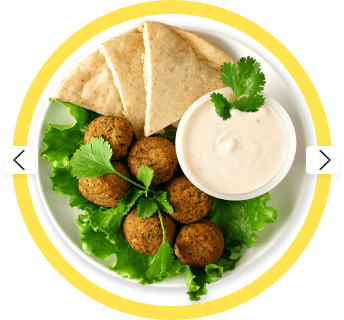
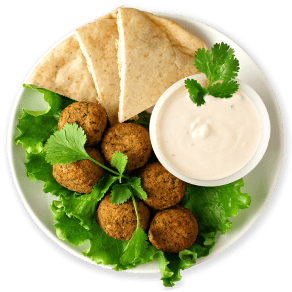
позиціювання + картинки + ховер - фокус

diff --git a/src/css/hero.css b/src/css/hero.css
@@ -17,6 +17,9 @@
     line-height: 1.4;
     margin-bottom: 32px;
 }
+.hero-list {
+    display: none;
+}
 .hero-btn {
     color: #2c2c2c;
     font-size: 13px;
@@ -31,10 +34,14 @@
     background-color: #BBF330;
     border: transparent;
 
-    border-radius: 30px;
-    padding: 6px 17px;
     width: 98px;
     height: 32px;
+    transition-duration: 500ms;
+    transition-timing-function: cubic-bezier(0.66,-0.28, 0.18, 0.91);
+}
+.hero-btn:hover,
+.hero-btn:focus {
+    background-color: #FFE450;
 }
 .hero-kart {
     display: none;
@@ -46,6 +53,7 @@
     .hero-wrapper {
         padding-top: 30px;
         padding-bottom: 42px;
+        position: relative;
     }
     .hero-title {
         line-height: 1.2;
@@ -54,9 +62,6 @@
         width: 481px;
     }
     .hero-group {
-        position: relative;
-        display: flex;
-        gap: 54px;
     }
     .hero-text {
         color: var(--Black, #2C2C2C);
@@ -66,18 +71,42 @@
         margin-bottom: 49px;
         width: 336px;
     }
+    .hero-picture {        
+    }
     .hero-kart {
         display: block;
         position: absolute;
-        top: -50%;
+        bottom: 0;
         right: 0;
+        border-radius: 291px;
+        border: 13px solid #FFE550;
+         
+    }
+    .hero-list {
+    }
+    .hero-item {
+        background-color: #D9D9D9;
+        border-radius: 4px;
+        width: 25px;
+        height: 24px;
+        display: flex;
+        justify-content: center;
+        align-items: center;
+    }
+    .link {  
+    }
+    .hero-icon-l {
+    }
+    .hero-icon-r {
+    }
+     .hero-kart-desktop {
+        display: none;
     }
 }
 @media only screen and (min-width: 1280px) {
     .hero-wrapper {
-        padding-top: 168px;
+        padding-top: 159px;
         padding-bottom: 0;
-        position: relative;
     }
     .hero-title {
         font-size: 48px;
@@ -87,20 +116,24 @@
         margin-bottom: 40px;
     }
     .hero-group {
-        gap: 100px;
     }
     .hero-kart {
         display: none;
     }
     .hero-kart-desktop {
         position: absolute;
-        top: -200%;
+        bottom: 0;
         right: 0;
         display: block;
         border-radius: 291px;
-        border: 27px solid #FFE550;       
+        border: 26px solid #FFE550; 
+        width: 580px;
+        height: 580px;
+    }
+    .hero-list {
+        display: none;
     }
     .hero-btn {
-        margin-bottom: 164px;
+        margin-bottom: 170px;
     }
     }

diff --git a/src/partials/hero.html b/src/partials/hero.html
@@ -6,37 +6,54 @@
         doorstep, no matter where you are. Order now and enjoy a hassle-free and delicious meal
         from the comfort of your own home.
       </p>
-
-      <picture>
-      
-      
-        <source
+      <div class="hero-picture">
+       <picture>
+       <source
           media="(min-width: 1280px)"
-          srcset="./images/gallery/img-1_lg.jpg 1x, ./images/gallery/img-1_lg@2x.jpg 2x"
-          type="image/jpg"
+          srcset="./img/hero/hero-salad.png 1x, ../img/hero/hero-salad-max.png 2x"
+          type="image/png"
         />
-        <!-- Tablet screen -->
-      
-        <source
-          media="(min-width: 768px)"
-          srcset="./images/gallery/img-1_md.jpg 1x, ./images/gallery/img-1_md@2x.jpg 2x"
-          type="image/jpg"
-        />
-        <!-- Mobile screen -->
-      
-     
-        <img
-          class="card-img"
-          src="./images/gallery/img-1_lg.jpg"
-          alt="Ноутбук"
-          width="450"
-          height="294"
-          loading="lazy"
+        <img 
+          class="hero-kart-desktop"
+          src="./img/hero/hero-salad.png"
+          alt="Salad"
+          width="520"
+          height="520"
         />
       </picture>
-
-
-
+      <source
+         media="(min-width: 768px)"
+          srcset="./img/hero/hero-tab1x.png 1x, ./img/hero/hero-tab2x.png 2x"
+          type="image/png"
+        />
+        <img 
+          class="hero-kart"
+          src="/img/hero/hero-tab1x.png"
+          alt="Salad"
+          width="320"
+          height="320"
+        />
+      </picture>
+      <div>
+      <ul class="hero-list">
+        <li class="hero-item"> 
+          <a href="../index.html" class="link">
+            <svg class="hero-icon-l" width="18" height="18">
+        <use href="./img/hero/hero-icons.svg#icon-vector-l"></use>
+      </svg> 
+    </a>
+        </li>
+        <li class="hero-item"> 
+          <a href="../index.html" class="link">
+            <svg class="hero-icon-r" width="18" height="18">
+        <use href="./img/hero/hero-icons.svg#icon-vector-r"></use>
+      </svg>
+    </a> 
+        </li>
+      </ul>
     </div>
+      </div>
+    </div>
+    
     <button class="hero-btn" type="button">Order Now</button>
   </section>
